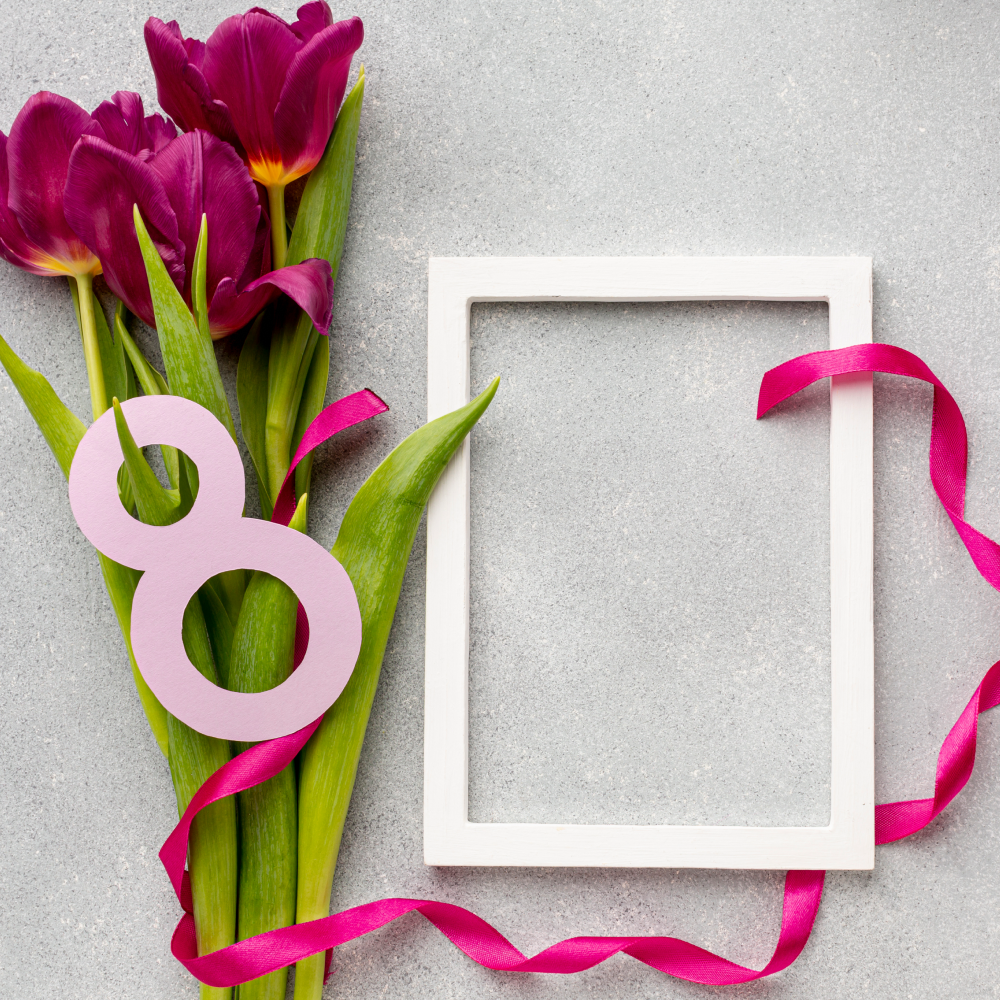
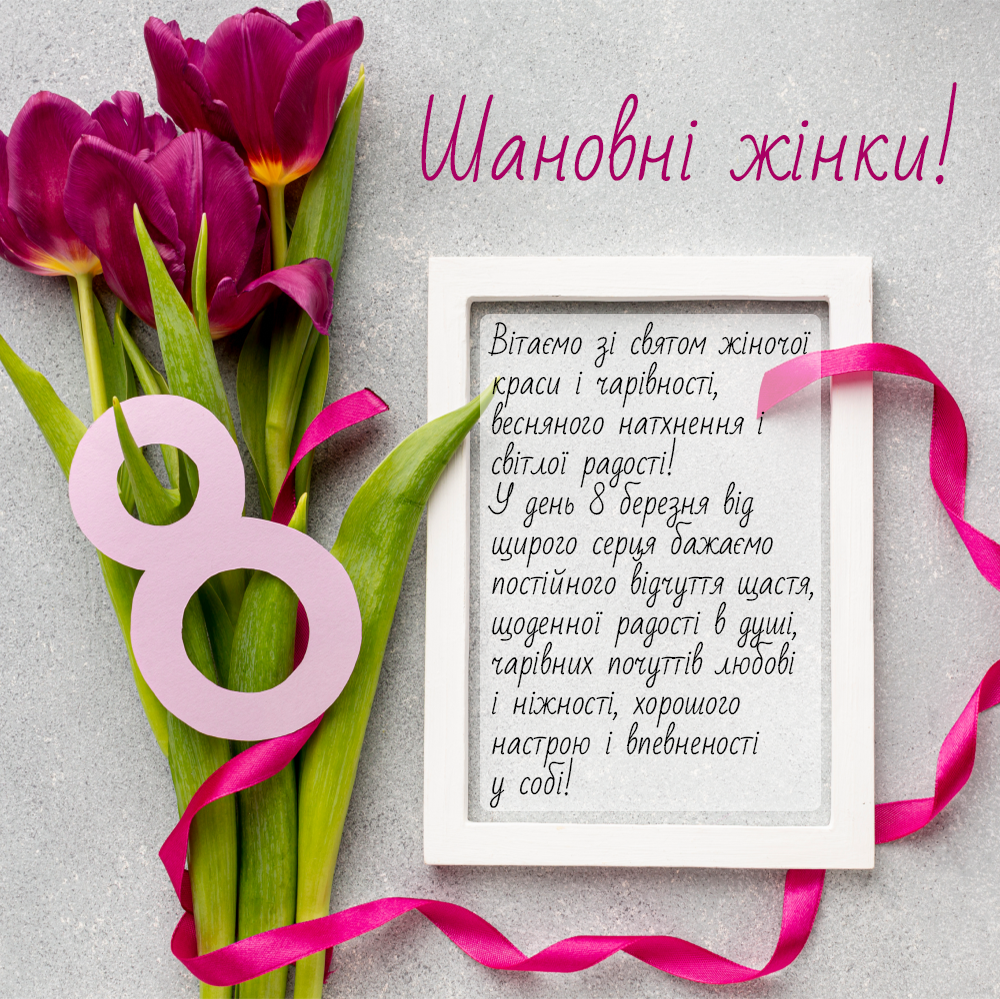
8 march
Вітання з 8 березня

diff --git a/templates/home.html b/templates/home.html
@@ -10,8 +10,8 @@
 
 {% block second_nav %}{% endblock %}
 
-{% block content %}
-  {% load render_bundle from webpack_loader %}
+{#{% block content %}#}
+{#  {% load render_bundle from webpack_loader %}#}
 
 {#  Автоматичні функції #}
 {#  {% if user.userprofile.id == 5   %}#}
@@ -29,46 +29,46 @@
 {#  {% endif %}#}
 
 
-    <div class="css_homepage_section">Електронний документообіг</div>
-    <a href={% url 'edms:my_docs' %}><button class="css_homepage_button">Мої документи</button></a>
-    <a href={% url 'edms:archive' %}><button class="css_homepage_button">Архів</button></a>
-    <a href={% url 'edms:sub_docs' %}><button class="css_homepage_button">Документи підлеглих</button></a>
-    <a href={% url 'edms:tables' %}><button class="css_homepage_button">Зведені таблиці</button></a>
-    <a href={% url 'edms:tables' meta_doc_type=7 %}><button class="css_homepage_button">Заявки по 1С8</button></a>
-
-    <div class="css_homepage_section">Система якості</div>
-    <a href={% url 'docs:index' %}><button class="css_homepage_button">Список документів СМЯ</button></a>
-    <a href={% url 'docs:new_doc' %}><button class="css_homepage_button">Внести новий документ</button></a>
-
-    <div class="css_homepage_section">Інше</div>
-    <a href={% url 'docs:orders' %}><button class="css_homepage_button">Накази та розпорядження</button></a>
-    <a href={% url 'docs:contracts' %}><button class="css_homepage_button">Договори</button></a>
-    <a href={% url 'correspondence:index' %}><button class="css_homepage_button">Листування з клієнтами</button></a>
-
-    <div class="mt-5">
-      {% if birthdays %}
-          <div class="p-3 css_homepage_bd_image" id="bg" style=" background: url('{% static 'img/birthday_bg/' %}{{bg}}.jpg'); background-size: 100%;">
-              <div class='css_homepage_happy_birthday'>Вітаємо з днем народження!</div>
-              <div class='d-flex justify-content-center m-2'>
-                  {% for birthday in birthdays %}
-                      <div class='card mr-2 pt-3 css_homepage_birthday_card align-items-center'>
-                          {% if birthday.photo %}
-                              <img src="{% get_media_prefix %}{{ birthday.photo }}"
-                                   style="height: 15vh; width: 15vh"
-                                   class="rounded"
-                                   alt="'">
-                          {% endif %}
-                          <div class='card-body'>
-                              <h5 class='card-title'>{{ birthday.name }}</h5>
-                              <p class='card-text'>{{ birthday.seat }}</p>
-                          </div>
-                      </div>
-                  {% endfor %}
-              </div>
-          </div>
-          <small>Якщо ваш день народження вказано неправильно, зверніться до адміністратора.</small>
-      {% endif %}
-    </div>
+{#    <div class="css_homepage_section">Електронний документообіг</div>#}
+{#    <a href={% url 'edms:my_docs' %}><button class="css_homepage_button">Мої документи</button></a>#}
+{#    <a href={% url 'edms:archive' %}><button class="css_homepage_button">Архів</button></a>#}
+{#    <a href={% url 'edms:sub_docs' %}><button class="css_homepage_button">Документи підлеглих</button></a>#}
+{#    <a href={% url 'edms:tables' %}><button class="css_homepage_button">Зведені таблиці</button></a>#}
+{#    <a href={% url 'edms:tables' meta_doc_type=7 %}><button class="css_homepage_button">Заявки по 1С8</button></a>#}
+{##}
+{#    <div class="css_homepage_section">Система якості</div>#}
+{#    <a href={% url 'docs:index' %}><button class="css_homepage_button">Список документів СМЯ</button></a>#}
+{#    <a href={% url 'docs:new_doc' %}><button class="css_homepage_button">Внести новий документ</button></a>#}
+{##}
+{#    <div class="css_homepage_section">Інше</div>#}
+{#    <a href={% url 'docs:orders' %}><button class="css_homepage_button">Накази та розпорядження</button></a>#}
+{#    <a href={% url 'docs:contracts' %}><button class="css_homepage_button">Договори</button></a>#}
+{#    <a href={% url 'correspondence:index' %}><button class="css_homepage_button">Листування з клієнтами</button></a>#}
+{##}
+{#    <div class="mt-5">#}
+{#      {% if birthdays %}#}
+{#          <div class="p-3 css_homepage_bd_image" id="bg" style=" background: url('{% static 'img/birthday_bg/' %}{{bg}}.jpg'); background-size: 100%;">#}
+{#              <div class='css_homepage_happy_birthday'>Вітаємо з днем народження!</div>#}
+{#              <div class='d-flex justify-content-center m-2'>#}
+{#                  {% for birthday in birthdays %}#}
+{#                      <div class='card mr-2 pt-3 css_homepage_birthday_card align-items-center'>#}
+{#                          {% if birthday.photo %}#}
+{#                              <img src="{% get_media_prefix %}{{ birthday.photo }}"#}
+{#                                   style="height: 15vh; width: 15vh"#}
+{#                                   class="rounded"#}
+{#                                   alt="'">#}
+{#                          {% endif %}#}
+{#                          <div class='card-body'>#}
+{#                              <h5 class='card-title'>{{ birthday.name }}</h5>#}
+{#                              <p class='card-text'>{{ birthday.seat }}</p>#}
+{#                          </div>#}
+{#                      </div>#}
+{#                  {% endfor %}#}
+{#              </div>#}
+{#          </div>#}
+{#          <small>Якщо ваш день народження вказано неправильно, зверніться до адміністратора.</small>#}
+{#      {% endif %}#}
+{#    </div>#}
 
 {#  Оголошення #}
 {#    <div class='ticker-wrap'>#}
@@ -82,5 +82,11 @@
 {#        </div>#}
 {#    </div>#}
 
-{#  <img src="{% static 'img/8m.png' %}" style="margin-top: 20px; height: 90vh" alt="">#}
+
+{#{% endblock %}#}
+
+{% block content_fluid %}
+  <div class="d-flex justify-content-center">
+    <img class="rounded" src="{% static 'img/8m.png' %}" style="margin-top: 20px; height: 85vh" alt="">
+  </div>
 {% endblock %}
